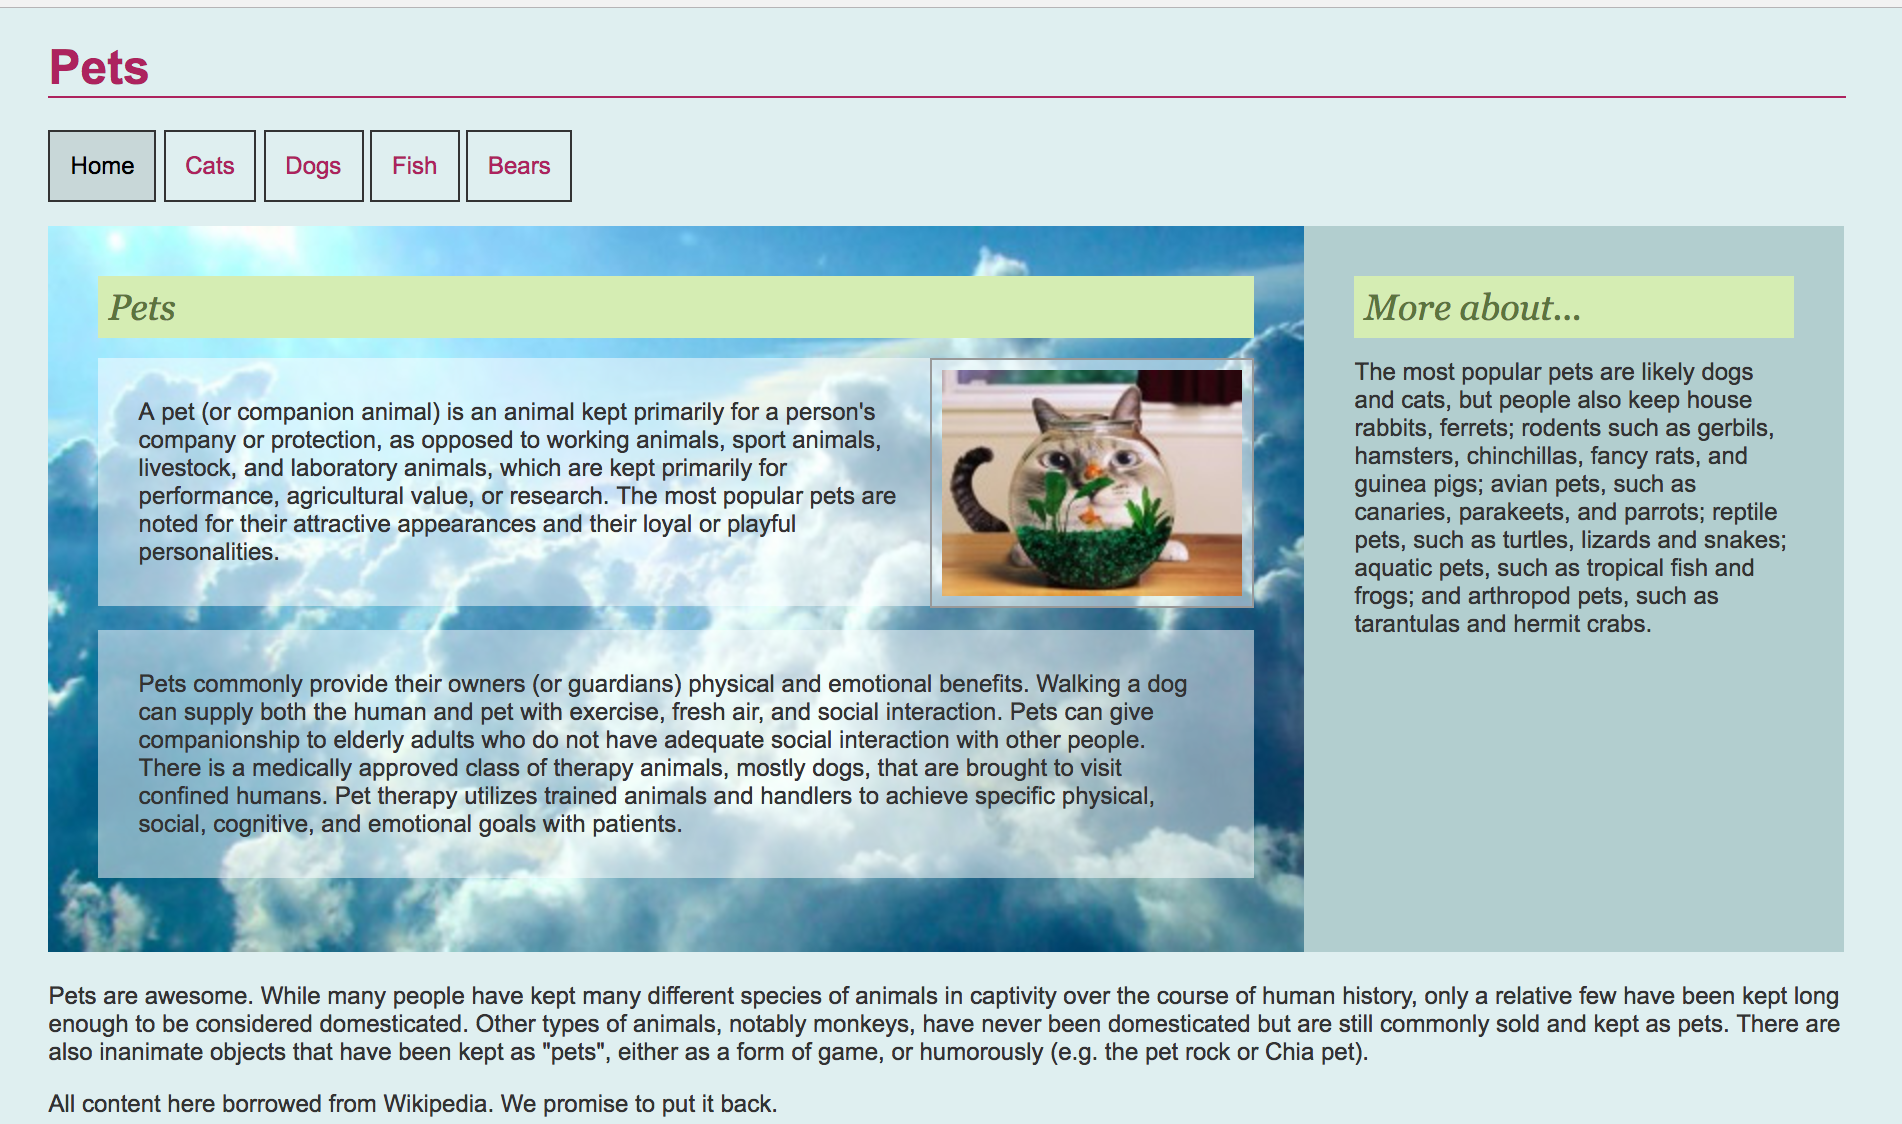
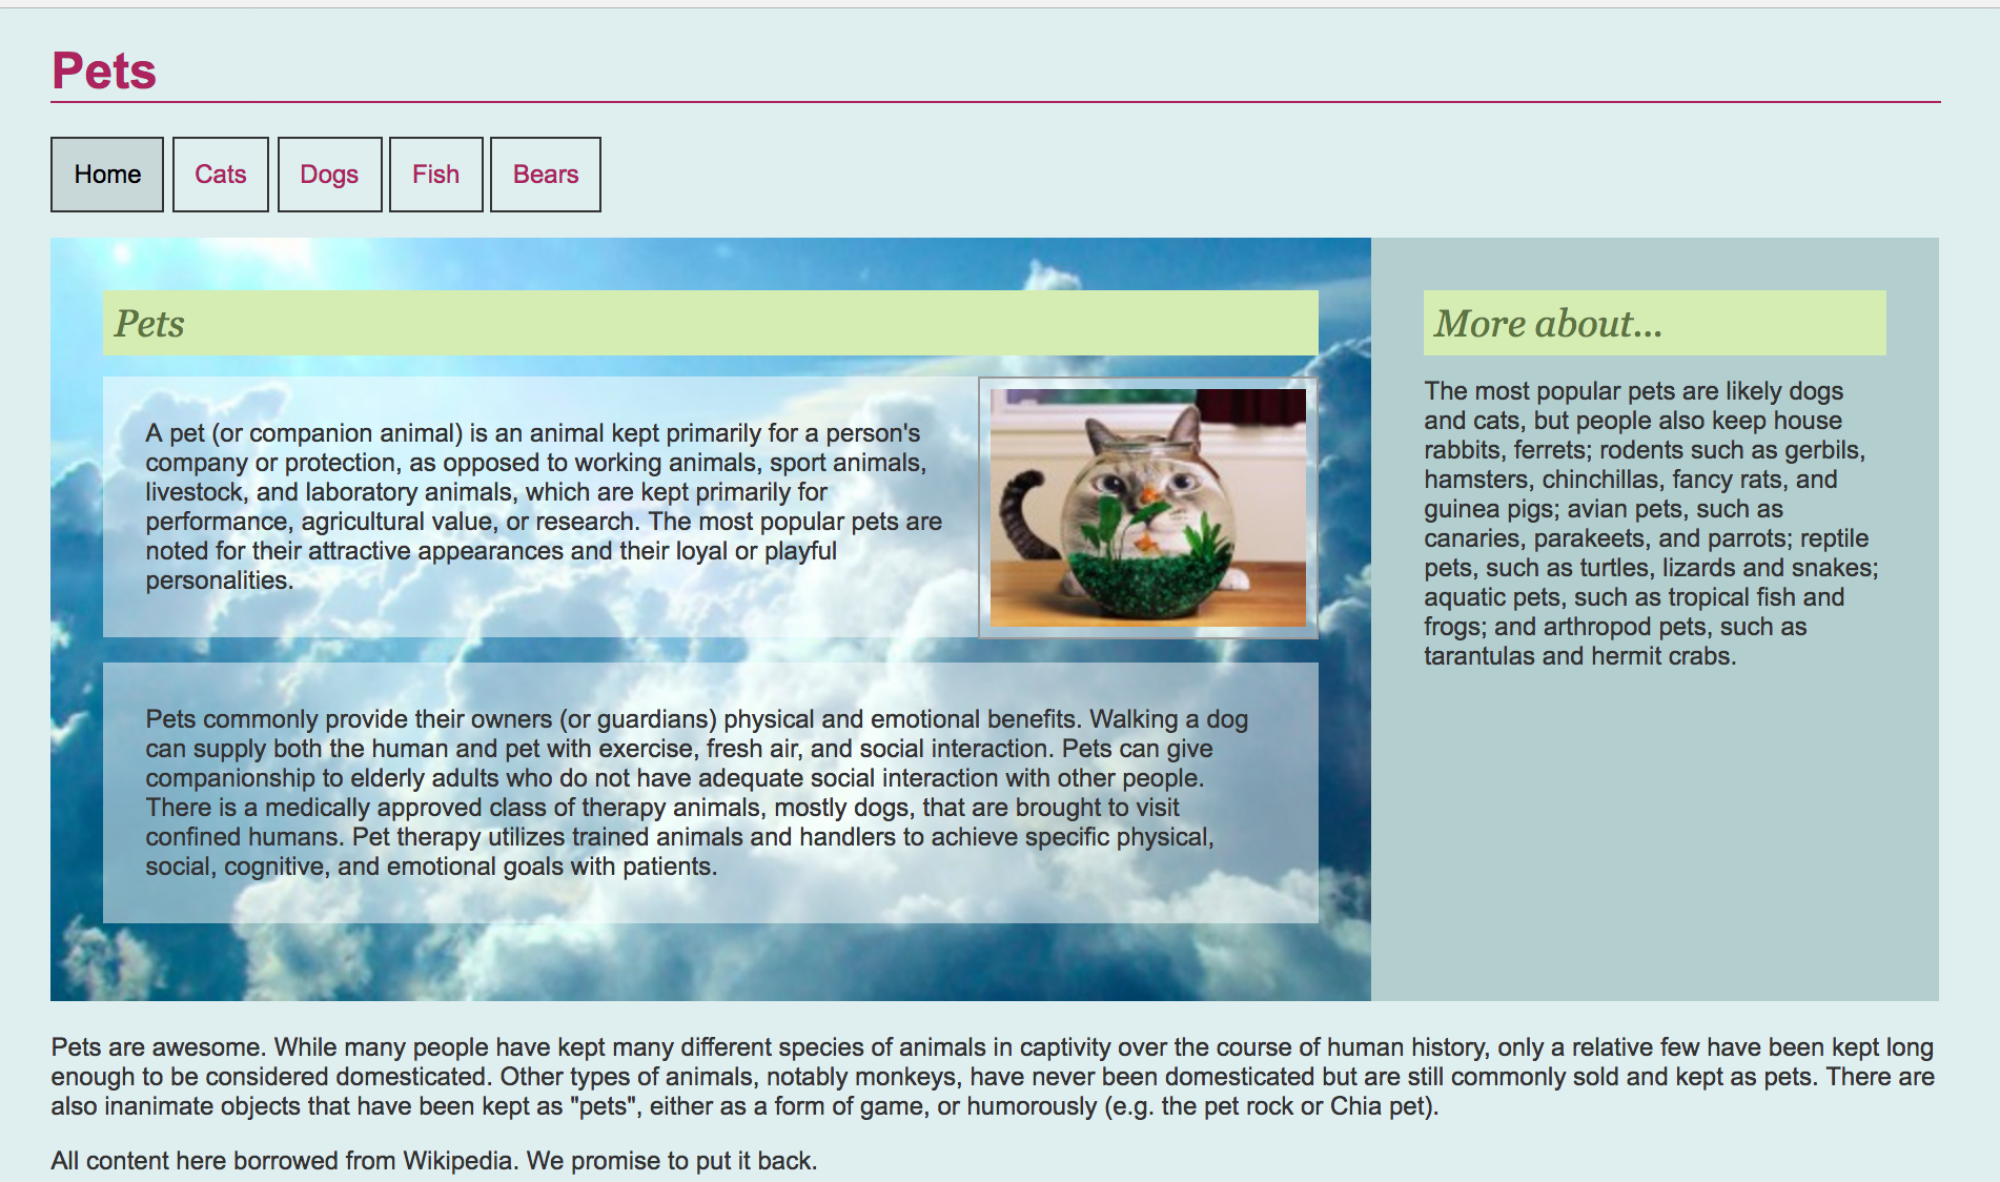
Finishing up portfolio page

diff --git a/css/styles.css b/css/styles.css
@@ -27,7 +27,7 @@
 }
 .main-menu a:hover { color: #ddd; }
 
-.active { color: white; }
+.active a{ color: white; }
 
 
 /*	****************************************
@@ -38,7 +38,7 @@ h1{
 	padding: 20px;
 }
 
-img{
+section img{
 	max-width: 200px;
 	max-height: 200px;
 	padding: 20px;
@@ -75,6 +75,16 @@ img{
   margin: auto;
 }
 
+.mySlides img{
+  width: 100%;
+  max-height: 300px;
+  text-align: center;
+}
+
+.mySlides p{
+  padding: 100px;
+}
+
 /* Next & previous buttons */
 .prev, .next {
   cursor: pointer;
@@ -103,7 +113,8 @@ img{
 
 /* Caption text */
 .text {
-  color: #f2f2f2;
+  color: black;
+  background-color: #f2f2f2;
   font-size: 15px;
   padding: 8px 12px;
   position: absolute;

diff --git a/portfolio.php b/portfolio.php
@@ -12,21 +12,24 @@
 
 	<div class="slideshow-container">
 		<div class="mySlides fade">
-			<div class="numbertext">1 / 3</div>
-			<img src="img1.jpg" style="width:100%">
-			<div class="text">Caption Text</div>
+			<div class="numbertext">1 / 2</div>
+			<img src="images/lab01.png">
+			<div class="text">Lab 01</div>
+			<p>Lab 01 this is the first lab of CSC 174. This refamiliarized me with the basics of HTML and CSS that I learned in CSC 170. This includes a picture of a flower and grass and also includes fake text. You can see my Lab 1 <a href="http://urcsc170.org/azhang/lab01/">here</a>.</p>
 		</div>
 
 		<div class="mySlides fade">
-			<div class="numbertext">2 / 3</div>
-			<img src="img2.jpg" style="width:100%">
-			<div class="text">Caption Two</div>
+			<div class="numbertext">2 / 2</div>
+			<img src="images/lab02.png">
+			<div class="text">Lab 02</div>
+			<p>Lab 02 is the second lab of CSC 174. This lab was to explore PHP includes and helped me learn ahout how to use php includes and the correct format. You can see my lab 2 <a href="http://urcsc170.org/azhang/lab02/index.php">here.</a></p>
 		</div>
 
 		<div class="mySlides fade">
 			<div class="numbertext">3 / 3</div>
-			<img src="img3.jpg" style="width:100%">
-			<div class="text">Caption Three</div>
+			<img src="images/lab03.png">
+			<div class="text">Lab 03</div>
+			<p>This lab was the third lab of CSC 174. This lab was my first exploration into frontend framworks. You can see my lab 3 <a href="http://urcsc170.org/azhang/lab03">here.</a></p>
 		</div>
 
 		<a class="prev" onclick="plusSlides(-1)">&#10094;</a>
@@ -36,7 +39,11 @@
 	<span class="dot" onclick="currentSlide(1)"></span> 
 	<span class="dot" onclick="currentSlide(2)"></span> 
 	<span class="dot" onclick="currentSlide(3)"></span>
-	
+
+
+
+
+
 	<script src="http://code.jquery.com/jquery-2.2.4.min.js"></script>
 	<script type="text/javascript">
 		var slideIndex = 1;
